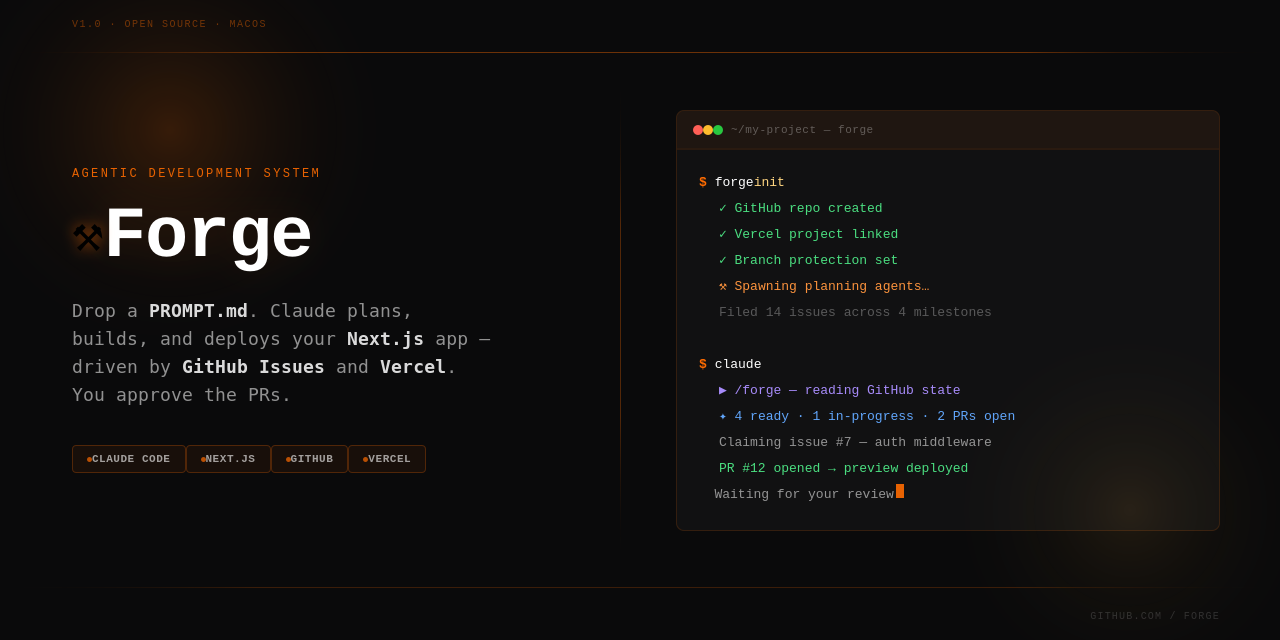
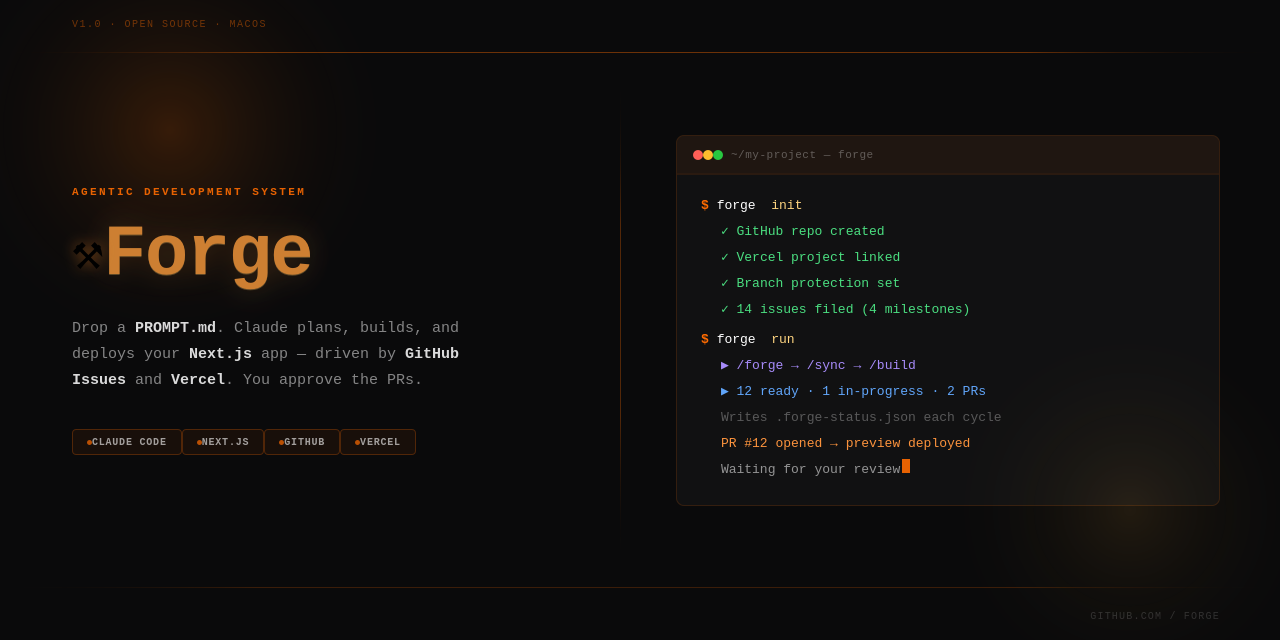
Update social preview image in README and remove outdated file

diff --git a/README.md b/README.md
@@ -1,6 +1,6 @@
 # ⚒ Forge
 
-<img src="https://raw.githubusercontent.com/allan-mobley-jr/forge/main/assets/forge-social-preview-under-1MB.png" alt="Forge — Autonomous Next.js Development" width="1280" />
+<img src="https://raw.githubusercontent.com/allan-mobley-jr/forge/main/assets/forge-social-preview.png" alt="Forge — Autonomous Next.js Development" width="1280" />
 
 Forge is an autonomous development system that turns a plain-English description of your app into a working Next.js project — planned, built, and deployed through GitHub Issues, PRs, and Vercel. You describe what you want. Claude Code does the rest. You approve the PRs.
 
